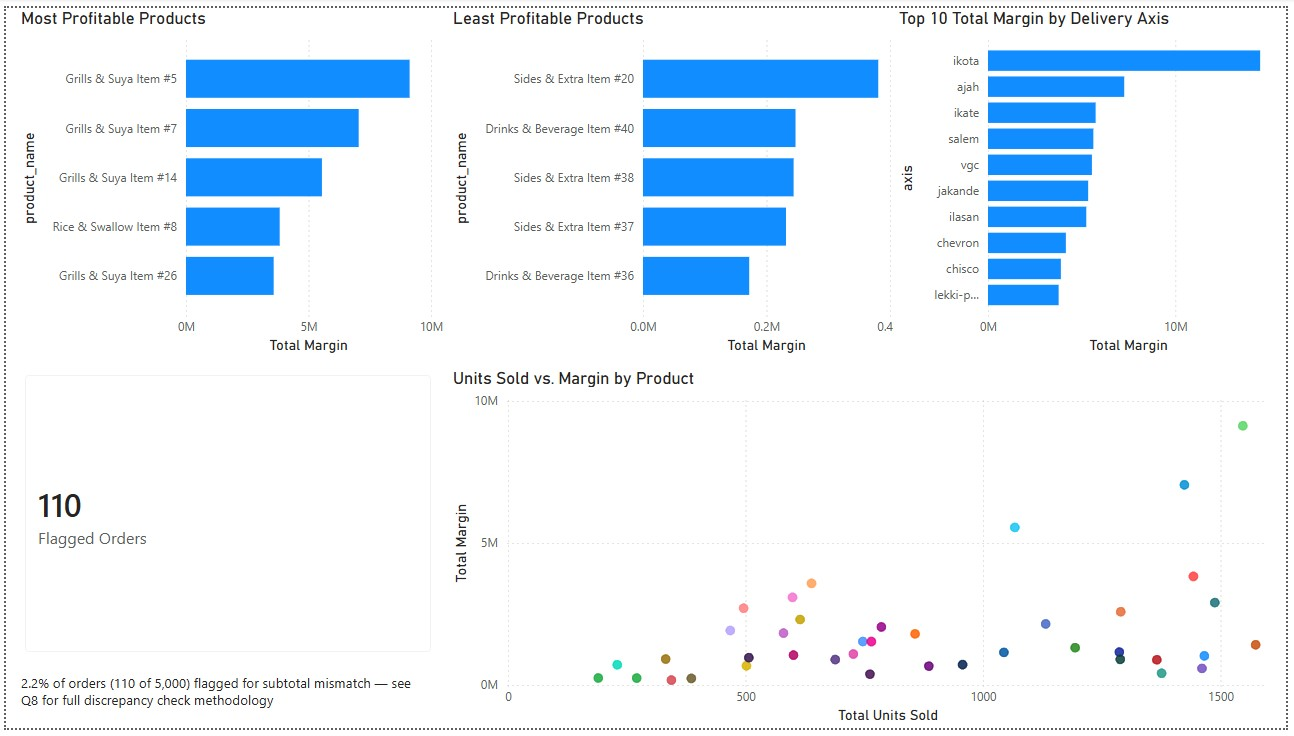
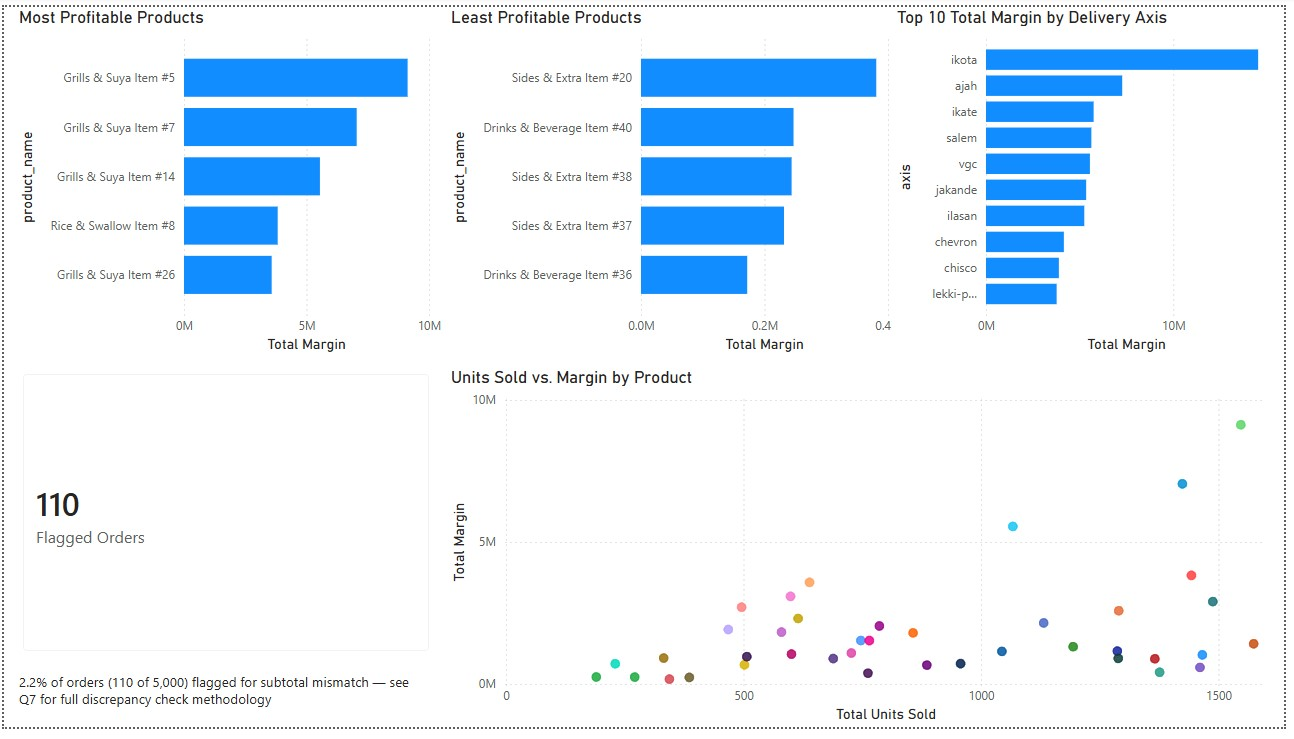
Minor corrections and cleanup

diff --git a/README.md b/README.md
@@ -6,7 +6,7 @@ End-to-end restaurant operations &amp; financial analysis project using PostgreS
 This project analyzes operational and financial data for a synthetic Lekki/Ikota-corridor 
 food delivery business. Using a relational PostgreSQL database of 5,000 orders, 400 customers, 
 and 40 products, I answer 10 real-world business questions covering sales performance, 
-delivery zone patterns, customer retention, staff and rider performance, and supplier cost 
+delivery zone patterns, customer purchasing patterns, staff and rider performance and supplier cost 
 efficiency. Findings are visualized in an interactive Power BI dashboard.
 
 ## Tools
@@ -26,11 +26,10 @@ efficiency. Findings are visualized in an interactive Power BI dashboard.
 4. Top 20 most frequent customers, counting only orders above ₦15k
 5. Margin analysis — which products/areas are profitable vs. just high-volume
 6. Order cancellation rate — overall and by day
-7. Repeat vs. one-time customers
-8. Discount/pricing discrepancy check
-9. Staff performance — order volume and cancellation/complaint rate by staff member
-10. Rider performance — completion rate, late-delivery rate, complaint rate
-11. Supplier cost analysis — cost-effectiveness and margin correlation
+7. Discount/pricing discrepancy check
+8. Staff performance — order volume and cancellation/complaint rate by staff member
+9. Rider performance — completion rate, late-delivery rate, complaint rate
+10. Supplier cost analysis — cost-effectiveness and margin correlation
 
 ---
 
@@ -73,17 +72,11 @@ zone as well as the highest-volume one. On the other end, General Paint and LBS 
 consistent bottom performers across both order volume and margin, suggesting they may be 
 edge-of-coverage zones rather than core delivery areas.
 
-**5. Not every question had a clean answer — and that's a finding too.**
-Two questions surfaced real limitations in the dataset rather than clean insights:
-- 100% of customers were repeat customers (zero one-time buyers), which is unrealistic for 
-  a real delivery business and most likely reflects how the synthetic data was generated 
-  rather than genuine customer loyalty.
-- Supplier cost-effectiveness couldn't be cleanly separated from product category, since 
-  each supplier in this dataset supplies exactly one category with no overlap — so "supplier 
-  choice" and "category" are confounded variables here.
-
-Flagging these limitations honestly, rather than forcing a narrative the data doesn't 
-support, was treated as part of the analysis rather than something to work around.
+**Limitations.**
+One question surfaced a real limitation in the dataset rather than a clean insight: 
+supplier cost-effectiveness couldn't be cleanly separated from product category, since each 
+supplier in this dataset supplies exactly one category with no overlap — so "supplier choice" 
+and "category" are confounded variables here.
 
 ---
 
@@ -223,24 +216,7 @@ See [sql/queries.sql](sql/queries.sql) for the full query.
 - **Friday has both the highest order volume AND the highest cancellation rate** (8.84%) — over 3x higher than Saturday, the lowest (2.97%). This compounds the Q3 finding that Friday drives high volume with lower average order value; now it's also shedding the highest share of that volume to cancellations
 - Every other day sits in a fairly tight band (2.97%–5.71%), meaning Friday is a genuine outlier rather than part of a gradual trend — worth investigating what's operationally different about Fridays (staffing, order backlog, rider availability) that might be driving both the volume spike and the cancellation spike together
 
-## Q7: Repeat vs. One-Time Customers
-See [sql/queries.sql](sql/queries.sql) for the full query.
-
-**Findings:**
-
-- One-time customers: 0 (0%)
-- Repeat customers: 400 (100%)
-
-**Note on this result:** every customer in this dataset has placed more than one order, 
-meaning there are no genuine one-time customers to compare against repeat customers. 
-This is very likely an artifact of how the synthetic data was generated — customers 
-appear to have been assigned a batch of multiple orders each, rather than modeling some 
-customers as single-purchase/non-returning. A real food delivery business would typically 
-show meaningful churn, with a portion of customers never returning after their first order. 
-This metric isn't representative of realistic customer retention behavior in this dataset 
-and should be interpreted with that limitation in mind.
-
-## Q8: Discount / Pricing Discrepancy Check
+## Q7: Discount / Pricing Discrepancy Check
 See [sql/queries.sql](sql/queries.sql) for the full query.
 
 **Findings:**
@@ -262,7 +238,7 @@ high discount ratio.
   closer audit, similar in nature to a pricing diagnostic issue previously identified and 
   resolved in a prior operations role
 
-## Q9: Staff Performance — Order Volume, Cancellation Rate, and Complaint Rate
+## Q8: Staff Performance — Order Volume, Cancellation Rate, and Complaint Rate
 See [sql/queries.sql](sql/queries.sql) for both queries.
 
 **Initial findings (order volume, cancellation rate, complaint rate):**
@@ -300,7 +276,7 @@ even when working?
   digging into the rate (orders per active day) revealed the total-orders gap wasn't just 
   about frequency of work, but also about consistency of output while working
 
-  ## Q10: Rider Performance — Completion Rate, Late Delivery Rate, Complaint Rate
+  ## Q9: Rider Performance — Completion Rate, Late Delivery Rate, Complaint Rate
 See [sql/queries.sql](sql/queries.sql) for the full query.
 
 **Findings:**
@@ -329,7 +305,7 @@ See [sql/queries.sql](sql/queries.sql) for the full query.
   performance/attendance issue are all plausible explanations the data alone can't distinguish, 
   but the pattern is clear enough that it wouldn't need statistical testing to justify action
 
-  ## Q11: Supplier Cost Analysis — Cost-Effectiveness and Margin Correlation
+  ## Q10: Supplier Cost Analysis — Cost-Effectiveness and Margin Correlation
 See [sql/queries.sql](sql/queries.sql) for the full query.
 
 **Findings:**

diff --git a/dashboard/README.md b/dashboard/README.md
@@ -40,7 +40,7 @@ Full interactive file: [Ikota_eats_dashboard.pbix](Ikota_eats_dashboard.pbix)
   moderate-to-low margin, while the highest-margin product sits at a mid-range volume, 
   not the top seller
 - **Flagged Orders card** — 110 of 5,000 orders (2.2%) flagged for a subtotal-vs-line-items 
-  mismatch, consistent with the Q8 discrepancy check
+  mismatch, consistent with the Q7 discrepancy check
 
 Full interactive file: [Ikota_eats_dashboard.pbix](Ikota_eats_dashboard.pbix)
 
@@ -68,10 +68,10 @@ Full interactive file: [Ikota_eats_dashboard.pbix](Ikota_eats_dashboard.pbix)
 - **Top 20 Most Frequent Customers** (orders above ₦15k) — confirms the sharp segmentation 
   found in Q4: all 20 customers fall within 81–113 qualifying orders, distinctly separated 
   from the rest of the customer base
-- **Average Margin by Supplier** — average per-product margin, matching the Q11 analysis. 
+- **Average Margin by Supplier** — average per-product margin, matching the Q10 analysis. 
   Supplier F (Fresh Produce) leads at ~₦2,930 average margin, while Supplier C (Beverages & 
   Drinks) trails at ~₦1,725, despite having the highest average unit cost — its higher input 
-  cost isn't being fully passed through to margin. As noted in Q11, each supplier maps to 
+  cost isn't being fully passed through to margin. As noted in Q10, each supplier maps to 
   exactly one product category with no overlap, so this reflects category-level differences 
   as much as supplier effectiveness
 
